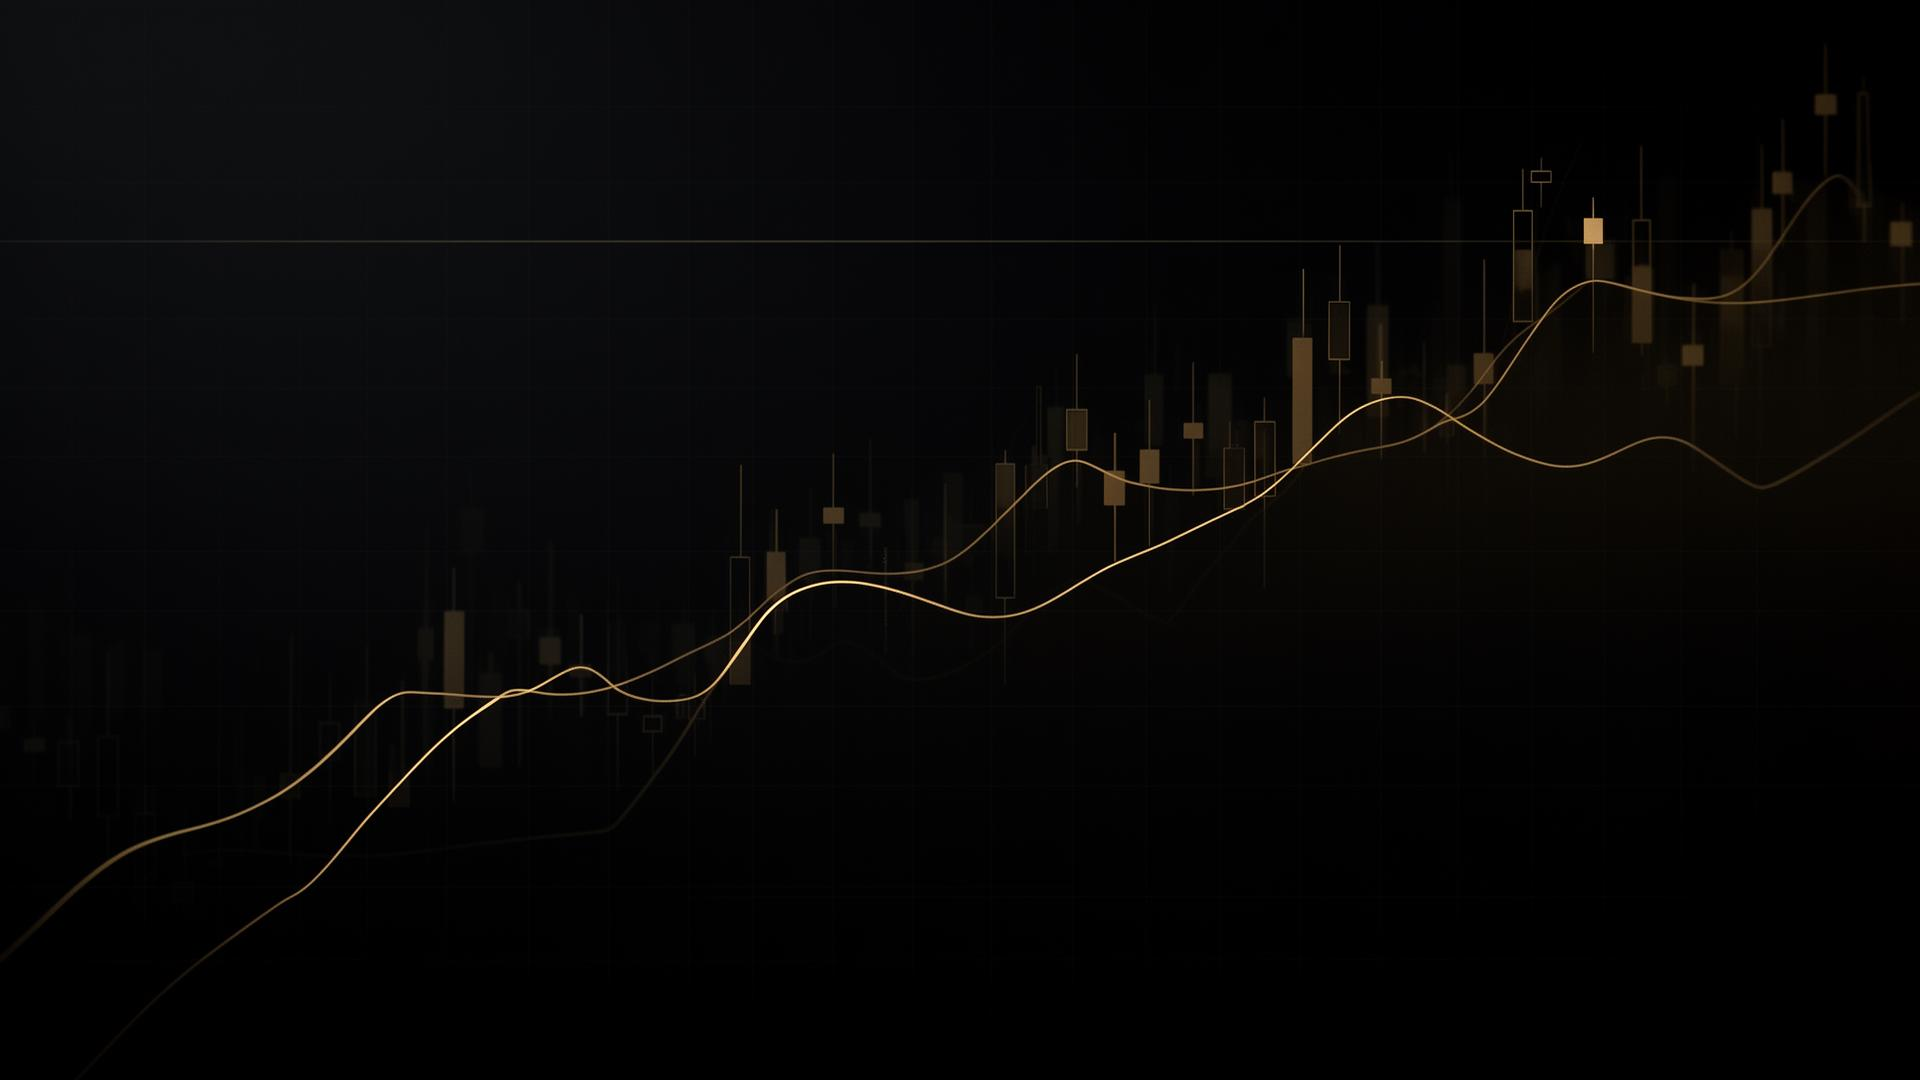
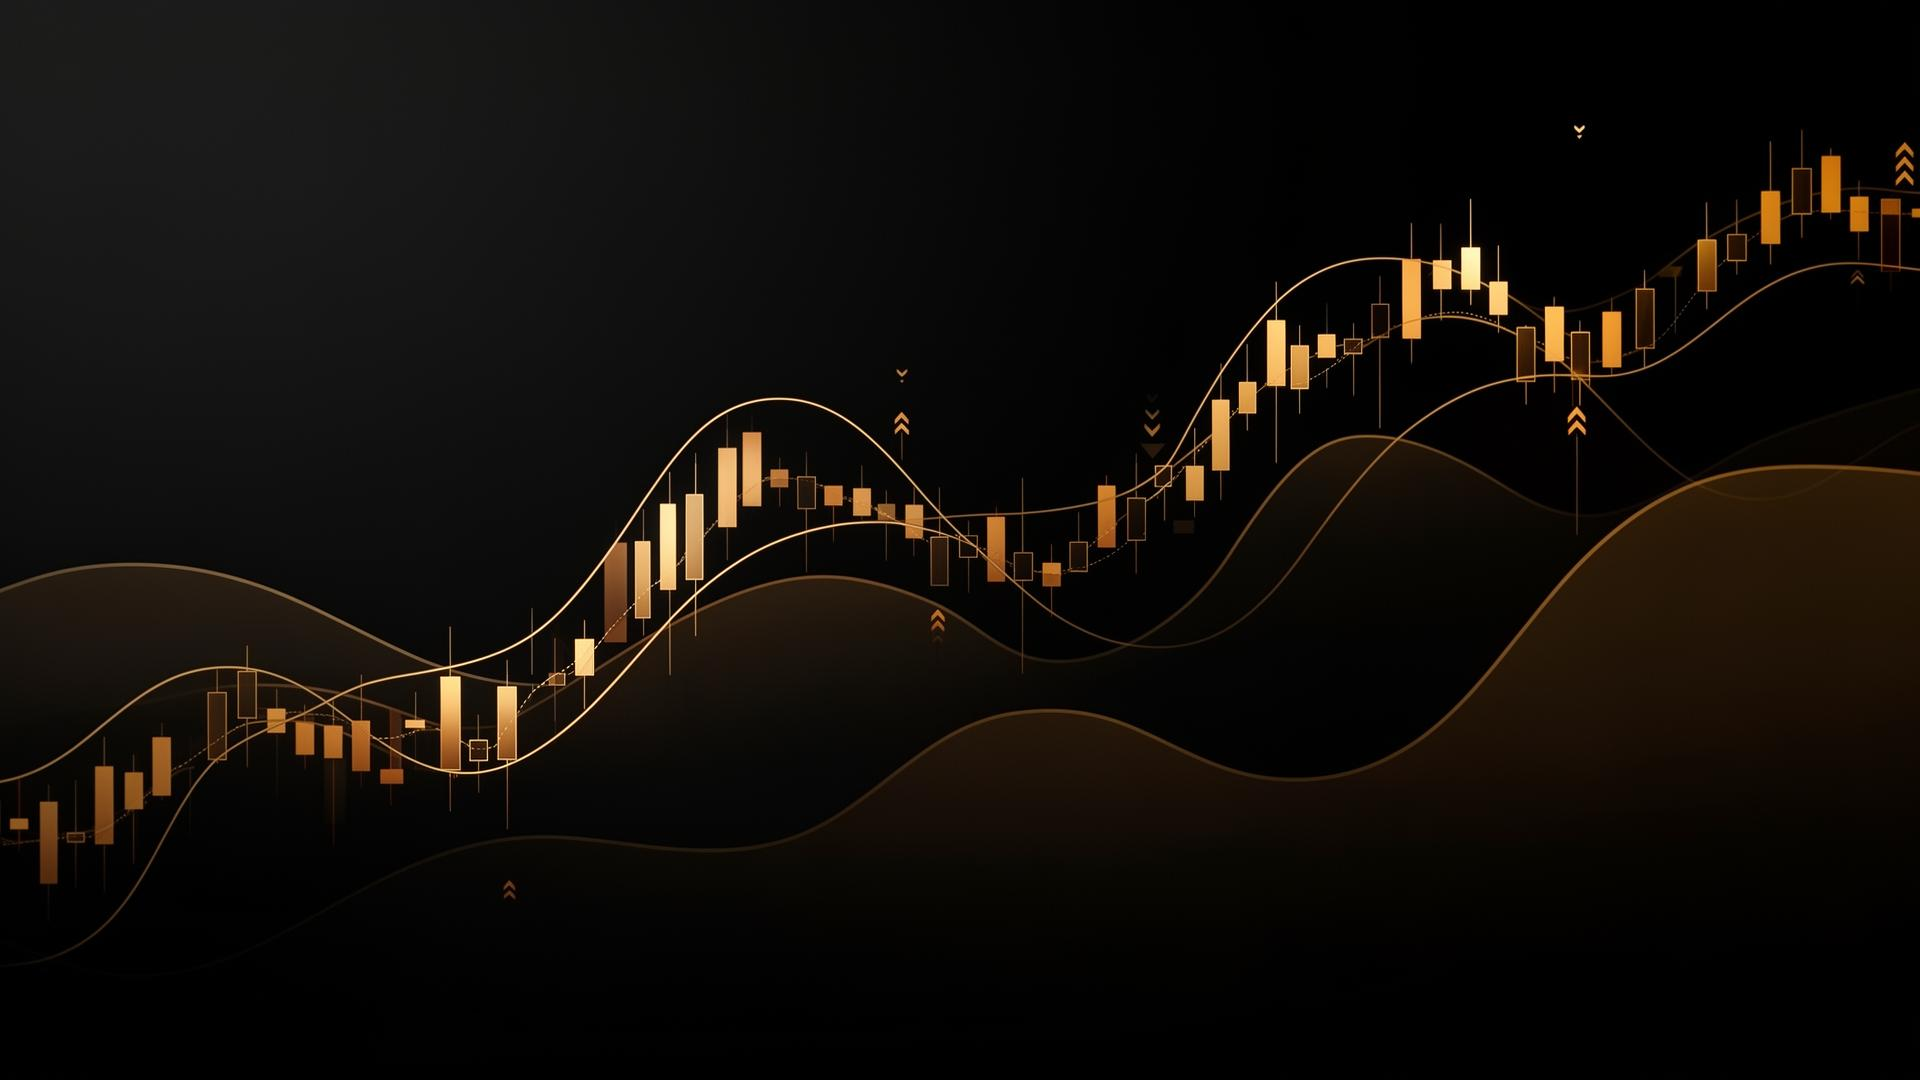
Changes

Changed region(s): [[0.0, 0.0917, 1.0, 0.825], [0.7812, 0.1528, 0.8125, 0.1833], [0.5625, 0.5806, 0.5938, 0.6111]]

diff --git a/src/components/sections/Hero.tsx b/src/components/sections/Hero.tsx
@@ -102,10 +102,7 @@ export const Hero = () => {
               backgroundSize: 'cover',
               backgroundPosition: 'center',
               backgroundRepeat: 'no-repeat',
-              // Make the chart texture visible but still subtle/clean
-              opacity: 0.32,
-              filter: 'contrast(1.15) saturate(1.1) brightness(1.05)',
-              mixBlendMode: 'screen',
+              opacity: 0.5,
             }}
           />
         </motion.div>
